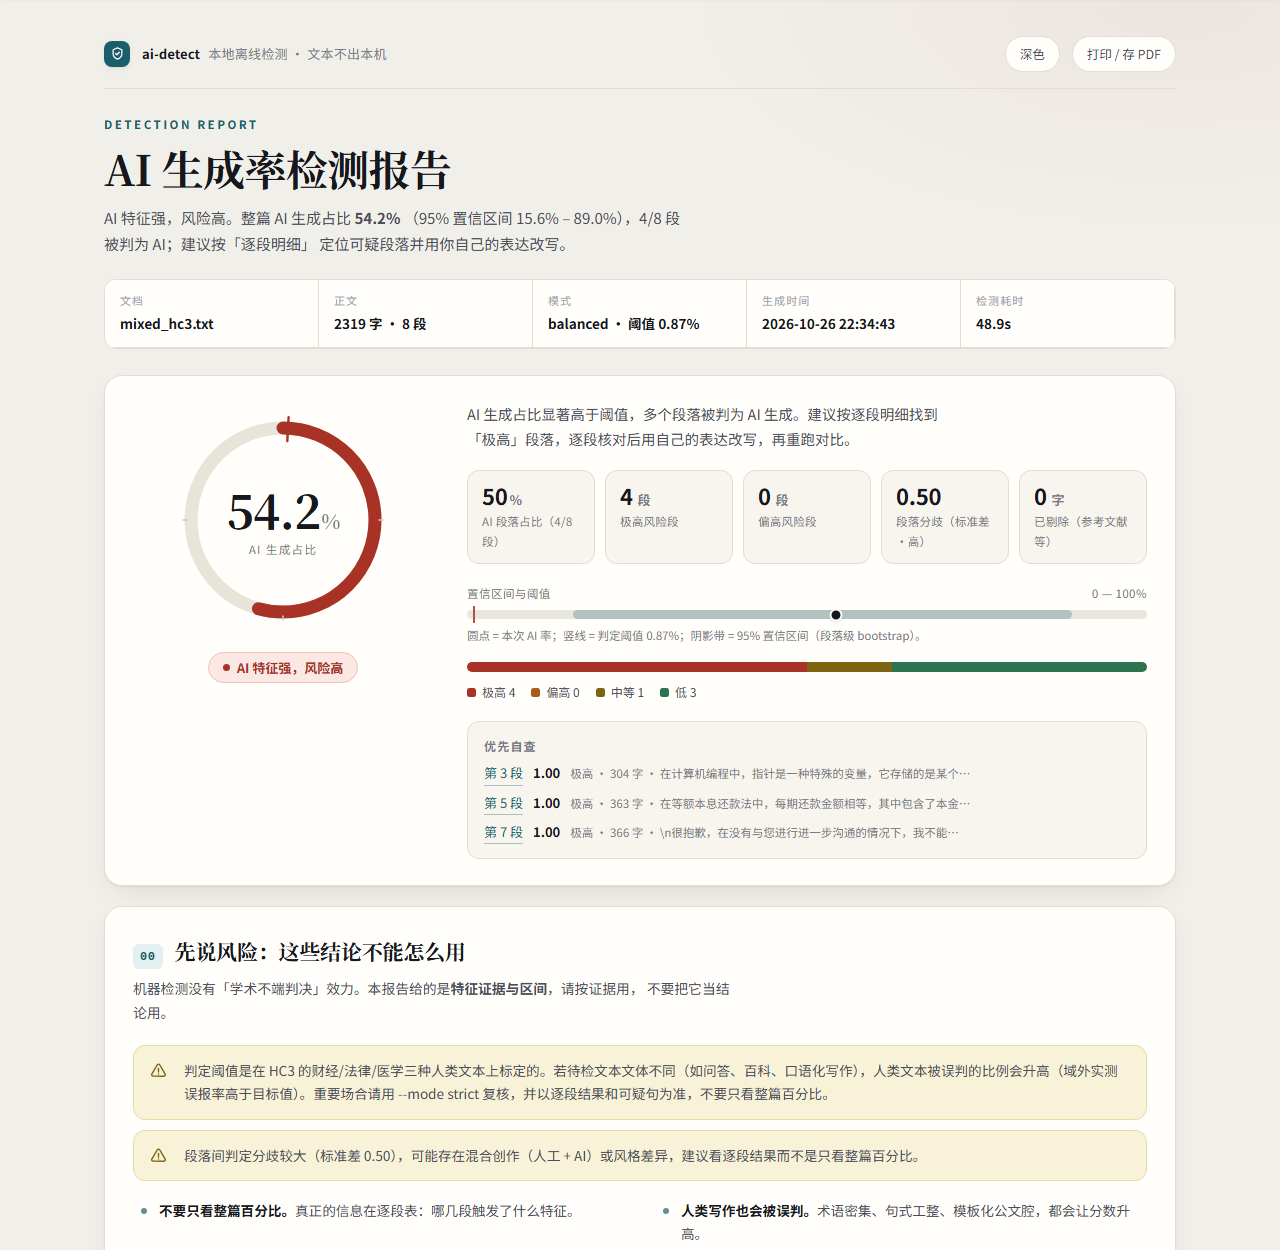
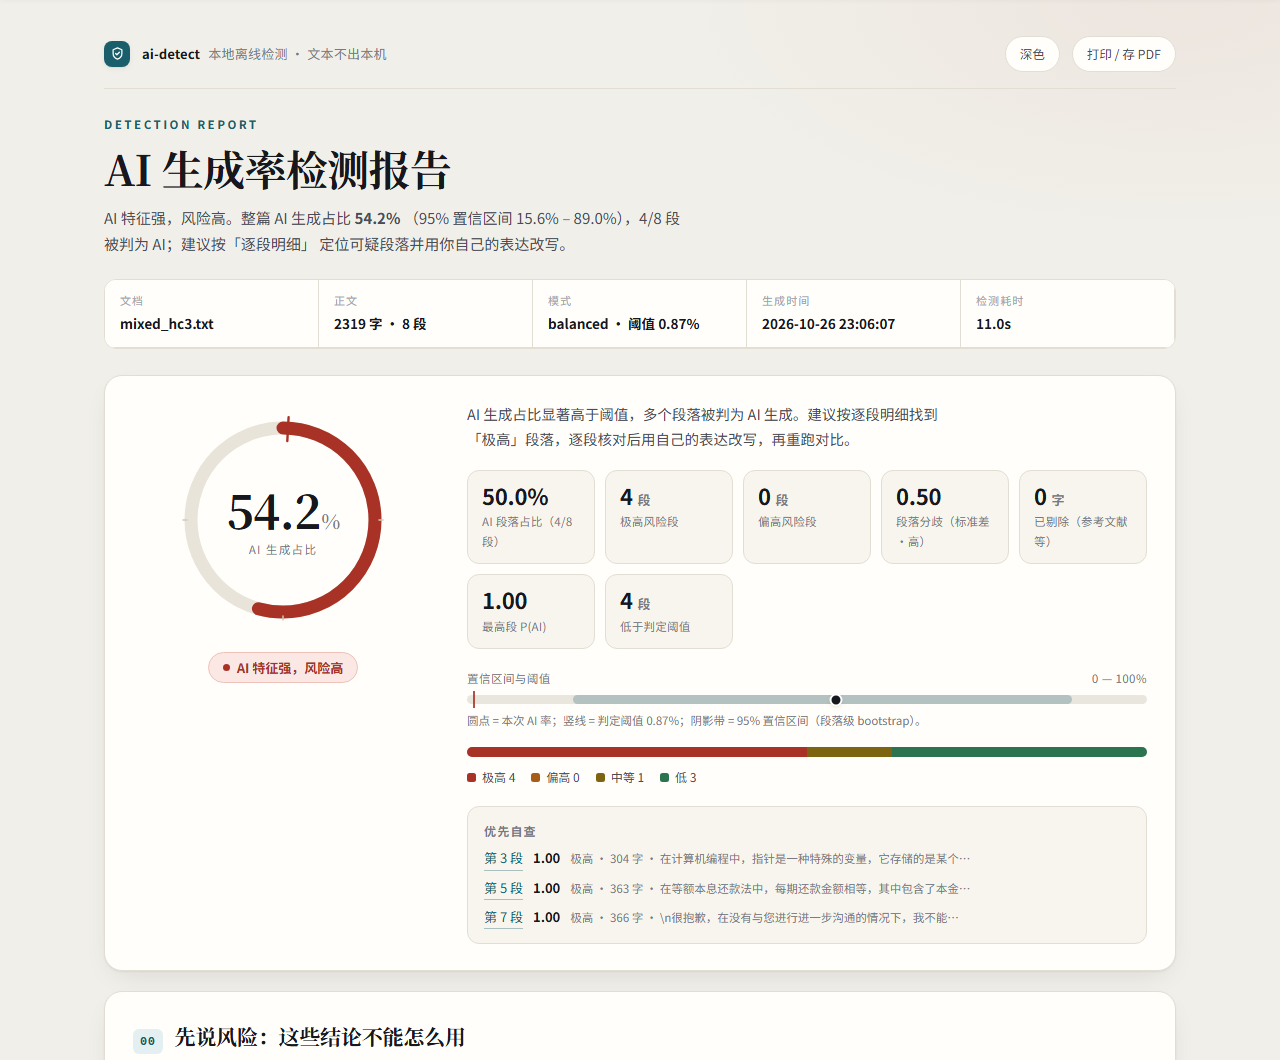
report: show tiny probabilities precisely and explain near-zero results

diff --git a/aidetect/report.py b/aidetect/report.py
@@ -437,6 +437,43 @@ def _cut_txt(value: float) -> str:
     return f"{value:.3f}"
 
 
+def _prob_txt(p: float) -> str:
+    """段落/句级概率文案：标定后分数常只有万分之几，固定两位会压成 0.00。"""
+    if p >= 0.1:
+        return f"{p:.2f}"
+    if p >= 0.01:
+        return f"{p:.3f}"
+    if p >= 0.0001:
+        return f"{p:.4f}"
+    return "<0.0001"
+
+
+def _prob_pct(p: float) -> str:
+    """柱状图柱顶标签：用百分比表示极小的概率，避免一排 0.00。"""
+    x = p * 100
+    if x >= 1:
+        return f"{x:.1f}%"
+    if x >= 0.01:
+        return f"{x:.2f}%"
+    return "<0.01%"
+
+
+def _rate_num(rate: float) -> str:
+    """整篇 AI 率的数字部分（不带 %），极小值不四舍五入成 0.0。"""
+    x = rate * 100
+    if x >= 0.1:
+        return f"{x:.1f}"
+    if x >= 0.001:
+        return f"{x:.2f}"
+    if x > 0:
+        return f"{x:.3f}"
+    return "0.00"
+
+
+def _rate_txt(rate: float) -> str:
+    return f"{_rate_num(rate)}%"
+
+
 def _gauge(rate: float, threshold: float, risk: str) -> str:
     """环形量表：进度环 = AI 率，刻度 = 判定阈值，颜色随风险档变化。"""
     size, center, radius, width = 236, 118, 92, 13
@@ -457,7 +494,7 @@ def _gauge(rate: float, threshold: float, risk: str) -> str:
             f'y2="{center + (radius + 8) * math.sin(a):.1f}" '
             f'stroke="var(--line-2)" stroke-width="1.5" stroke-linecap="round"/>')
     return f"""<div class="gauge">
-  <svg viewBox="0 0 {size} {size}" role="img" aria-label="AI 生成占比 {rate*100:.1f}%，判定阈值 {threshold*100:.2f}%">
+  <svg viewBox="0 0 {size} {size}" role="img" aria-label="AI 生成占比 {_rate_txt(rate)}，判定阈值 {threshold*100:.2f}%">
     <circle cx="{center}" cy="{center}" r="{radius}" fill="none" stroke="var(--gauge-track)" stroke-width="{width}"/>
     <circle cx="{center}" cy="{center}" r="{radius}" fill="none" stroke="{color}" stroke-width="{width}"
       stroke-linecap="round" stroke-dasharray="{dash:.2f} {circ:.2f}" transform="rotate(-90 {center} {center})"/>
@@ -466,7 +503,7 @@ def _gauge(rate: float, threshold: float, risk: str) -> str:
       stroke-linecap="round"/>
   </svg>
   <div class="gauge-center">
-    <div class="gauge-num">{rate*100:.1f}<small>%</small></div>
+    <div class="gauge-num">{_rate_num(rate)}<small>%</small></div>
     <div class="gauge-cap">AI 生成占比</div>
   </div>
 </div>"""
@@ -553,11 +590,11 @@ def _distribution_chart(analysis: Analysis) -> str:
         label = _unit_label(us)
         parts.append(
             f'<rect x="{x:.1f}" y="{y:.1f}" width="{bar_w:.1f}" height="{bar_h:.1f}" rx="2.5" '
-            f'fill="{color}"><title>{label} · P(AI)={us.p:.3f} · '
+            f'fill="{color}"><title>{label} · P(AI)={_prob_txt(us.p)} · '
             f'{GRADE_LABEL.get(us.grade, us.grade)} · {us.unit.chars} 字</title></rect>')
         if show_vals:
             parts.append(f'<text class="vlabel" x="{x + bar_w / 2:.1f}" y="{y - 6:.1f}" '
-                         f'text-anchor="middle">{us.p:.2f}</text>')
+                         f'text-anchor="middle">{_prob_pct(us.p)}</text>')
         if i % step == 0 or i == n - 1:
             parts.append(f'<text x="{x + bar_w/2:.1f}" y="{top + plot_h + 17:.1f}" '
                          f'text-anchor="middle">{_unit_label(us).replace("第 ", "").replace(" 段", "")}</text>')
@@ -576,7 +613,7 @@ def _top_paragraphs(analysis: Analysis, limit: int = 3) -> str:
     for r in picks:
         items.append(
             f'<li><a href="#p{r.index + 1}">第 {r.index + 1} 段</a>'
-            f'<b>{r.p:.2f}</b>'
+            f'<b>{_prob_txt(r.p)}</b>'
             f'<span class="tag">{GRADE_LABEL.get(r.grade, r.grade)} · {r.chars} 字 · '
             f'{_esc(r.text[:26])}…</span></li>')
     return f'<div class="tops"><h3>优先自查</h3><ol>{"".join(items)}</ol></div>'
@@ -616,7 +653,7 @@ def _para_rows(analysis: Analysis) -> str:
             f"<td class='num pnum'>{r.index + 1}</td>"
             f"<td>{kind}{merged}</td>"
             f"<td class='num'>{r.chars}</td>"
-            f"<td class='num heat'><span class='pv'>{r.p:.2f}</span>"
+            f"<td class='num heat'><span class='pv'>{_prob_txt(r.p)}</span>"
             f"<span class='hbar'><i style='width:{p*100:.1f}%;background:{heat}'></i></span></td>"
             f"<td><span class='g {r.grade}'>{GRADE_LABEL.get(r.grade, r.grade)}</span></td>"
             f"<td class='cell-text'>{_esc(r.text[:90])}"
@@ -668,7 +705,7 @@ def render(analysis: Analysis, generated_at: str | None = None) -> str:
     rk = risk_key(rate, analysis.threshold)
     title, desc = RISK[rk]
     ci = analysis.ai_rate_ci
-    ci_txt = (f"{_pct(ci[0])} – {_pct(ci[1])}" if ci else "样本段数太少，无法给出区间")
+    ci_txt = (f"{_rate_txt(ci[0])} – {_rate_txt(ci[1])}" if ci else "样本段数太少，无法给出区间")
     generated_at = generated_at or time.strftime("%Y-%m-%d %H:%M:%S")
     calib = analysis.recipe
     cuts = _grade_cutoffs(analysis)
@@ -680,6 +717,19 @@ def render(analysis: Analysis, generated_at: str | None = None) -> str:
     ps = [us.p for us in analysis.unit_scores]
     spread = (sum((p - sum(ps) / len(ps)) ** 2 for p in ps) / len(ps)) ** 0.5 if len(ps) > 1 else 0.0
     spread_txt = "低" if spread < 0.15 else ("中" if spread < 0.3 else "高")
+
+    scored = [r for r in analysis.paragraphs if r.p is not None]
+    max_p = max((r.p for r in scored), default=0.0)
+    below_n = sum(1 for r in scored if r.p < analysis.threshold)
+    low_signal = ""
+    if scored and max_p < analysis.threshold:
+        low_signal = (
+            f"<div class='ok'>{_ICON_CHECK}<div><b>全部 {len(scored)} 段都低于判定阈值"
+            f"（{analysis.threshold*100:.2f}%），最高的一段 P(AI) = {_prob_txt(max_p)}。</b>"
+            "这不是四舍五入凑出来的 0，而是模型确实给得很低，整篇更接近人工写作。"
+            "但方向要理解对：<b>分数低 ≠ 一定没用 AI</b> —— 检测器对「AI 生成后再大改」"
+            "「较新模型的输出」漏检率明显更高。若你怀疑某几段，单独把那几段复制成小文档再测一次，"
+            "比看整篇百分比更可靠。</div></div>")
 
     warns = "".join(
         f"<div class='warn'>{_ICON_ALERT}<div>{_esc(w)}</div></div>" for w in analysis.warnings)
@@ -713,7 +763,7 @@ def render(analysis: Analysis, generated_at: str | None = None) -> str:
 <div class="stickybar noprint" id="stickybar">
   <div class="inner">
     <span>{_esc(name)}</span>
-    <b class="num">{rate*100:.1f}%</b>
+    <b class="num">{_rate_txt(rate)}</b>
     <span class="risk pill {rk}">{_esc(title.replace('结论：', ''))}</span>
     <span>模式 {_esc(analysis.mode)} · 阈值 {analysis.threshold*100:.2f}%</span>
   </div>
@@ -732,7 +782,7 @@ def render(analysis: Analysis, generated_at: str | None = None) -> str:
   <div class="titles">
     <div class="eyebrow">Detection report</div>
     <h1>AI 生成率检测报告</h1>
-    <p class="subtitle">{_esc(title.replace('结论：', ''))}。整篇 AI 生成占比 <b>{rate*100:.1f}%</b>
+    <p class="subtitle">{_esc(title.replace('结论：', ''))}。整篇 AI 生成占比 <b>{_rate_txt(rate)}</b>
       （95% 置信区间 {ci_txt}），{ai_paras}/{units} 段被判为 AI；建议按「逐段明细」
       定位可疑段落并用你自己的表达改写。</p>
   </div>
@@ -754,12 +804,15 @@ def render(analysis: Analysis, generated_at: str | None = None) -> str:
     <div class="verdict-body">
       <p>{_esc(desc)}</p>
       <div class="statgrid">
-        <div class="stat"><b>{analysis.ai_rate_paras*100:.0f}<small>%</small></b><span>AI 段落占比（{ai_paras}/{units} 段）</span></div>
+        <div class="stat"><b>{_rate_txt(analysis.ai_rate_paras)}</b><span>AI 段落占比（{ai_paras}/{units} 段）</span></div>
         <div class="stat"><b>{high_n}<small> 段</small></b><span>极高风险段</span></div>
         <div class="stat"><b>{mid_high_n}<small> 段</small></b><span>偏高风险段</span></div>
         <div class="stat"><b>{spread:.2f}</b><span>段落分歧（标准差·{spread_txt}）</span></div>
         <div class="stat"><b>{st.get('excluded_chars', 0)}<small> 字</small></b><span>已剔除（参考文献等）</span></div>
+        <div class="stat"><b>{_prob_txt(max_p)}</b><span>最高段 P(AI)</span></div>
+        <div class="stat"><b>{below_n}<small> 段</small></b><span>低于判定阈值</span></div>
       </div>
+      {low_signal}
       {_range_bar(rate, ci, analysis.threshold)}
       {_grade_bar(analysis)}
       {_top_paragraphs(analysis)}

diff --git a/aidetect/cli.py b/aidetect/cli.py
@@ -38,20 +38,32 @@ def _load_doc(source: str):
     return build_doc(text, name)
 
 
+def _rate_txt(rate: float) -> str:
+    """标定后的 AI 率可能只有万分之几，不能一律四舍五入成 0.0%。"""
+    x = rate * 100
+    if x >= 0.1:
+        return f"{x:.1f}%"
+    if x >= 0.001:
+        return f"{x:.2f}%"
+    if x > 0:
+        return f"{x:.3f}%"
+    return "0.00%"
+
+
 def _print_summary(analysis, html_path: Path | None, json_path: Path | None) -> None:
     st = analysis.stats
     rate = analysis.ai_rate_chars
     ci = analysis.ai_rate_ci
-    ci_txt = f"{ci[0]*100:.1f}%–{ci[1]*100:.1f}%" if ci else "样本不足"
+    ci_txt = f"{_rate_txt(ci[0])}–{_rate_txt(ci[1])}" if ci else "样本不足"
     print(f"\n文档：{st.get('name')}  正文 {st.get('body_chars')} 字 / {st.get('units')} 段 "
           f"（剔除 {st.get('excluded_chars', 0)} 字）")
     for e in analysis.engine_info:
         state = "✓" if e["available"] else "✗"
         print(f"引擎 {state} {e['label']}" + (f"  {e['note']}" if e["note"] else ""))
-    print(f"\nAI 生成占比（字数口径）：{rate*100:.1f}%   95% CI {ci_txt}")
+    print(f"\nAI 生成占比（字数口径）：{_rate_txt(rate)}   95% CI {ci_txt}")
     judged = analysis.grade_counts.get("high", 0) + analysis.grade_counts.get("mid_high", 0)
-    print(f"AI 段落占比：{analysis.ai_rate_paras*100:.0f}%（{judged}/{st.get('units')} 段判为 AI）"
-          f"   模式 {analysis.mode} / 阈值 {analysis.threshold:.2f}")
+    print(f"AI 段落占比：{_rate_txt(analysis.ai_rate_paras)}（{judged}/{st.get('units')} 段判为 AI）"
+          f"   模式 {analysis.mode} / 阈值 {analysis.threshold*100:.2f}%")
     if analysis.warnings:
         print("\n护栏提示：")
         for w in analysis.warnings:

diff --git a/README.md b/README.md
@@ -199,7 +199,7 @@ Get-ChildItem .\papers\*.docx | ForEach-Object {
 
 | 区块 | 内容 | 用法 |
 | --- | --- | --- |
-| 首屏结论 | 环形量表（AI 生成占比）、风险档、95% 置信区间条与阈值刻度、AI 段落占比、极高 / 偏高风险段数、段落分歧、已剔除字数、等级分布条、优先自查 Top3 | 先看结论与区间，**不要只看那个百分比** |
+| 首屏结论 | 环形量表（AI 生成占比）、风险档、95% 置信区间条与阈值刻度、AI 段落占比、极高 / 偏高风险段数、段落分歧、已剔除字数、**最高段 P(AI)**、**低于判定阈值段数**、等级分布条、优先自查 Top3 | 先看结论与区间，**不要只看那个百分比**；分数很小时看「最高段 P(AI)」判断是「确实低」还是「没算出来」 |
 | 先说风险 | 报告的静态使用边界 + 本次触发的护栏提示 | 从「这些结论不能怎么用」入手 |
 | 01 段落分布 | 每根柱子 = 一个判定单元的 P(AI)（柱顶标数值），虚线 = 当前模式阈值，颜色 = 四档；横轴段号与「03 逐段明细」的行锚点一致 | 快速定位哪几段「突出来」，点段号可跳转 |
 | 02 可疑句 | 只对已判为 AI 的单元做句级细化，按 P(AI) 降序，默认先列 8 条、其余折叠，最多 `--max-sentences` 条 | 优先改写的位置 |
@@ -526,6 +526,21 @@ ai-detect/
 ### 为什么我原创的段落被判偏高？
 
 常见原因：模板化表达多、句式过于均匀、连接词密度高、术语堆叠（困惑度异常低）、或者文本经过 AI 润色 / 翻译工具处理。先看报告「03 逐段明细」里每段的判定依据，再决定是否改写；也可以切到 `lenient` 模式看同一篇文章的下限。改写时**不要只做同义词替换**——检测器主要看句式节奏与可预测性，同义替换基本无效；加具体信息、个人判断、例子，拆掉过分工整的排比和模板连接词，通常比换词有效。
+
+### 检测结果全是 0.0%，是不是工具坏了？
+
+先看首屏「最高段 P(AI)」这一格：
+
+- **它也远低于判定阈值**（例如 0.0004 vs 0.87%）→ 模型确实给得很低，不是四舍五入凑出来的 0。报告与命令行现在按量级显示（万分之几不会被写成 `0.00`），首屏还会直接写明「全部 N 段都低于判定阈值，最高的一段 P(AI) = …」。
+- **它不低、整篇却是 0.0%** → 那才是真异常，请把 `out/<文档>_report.json` 留下来核对。
+
+分数普遍很低通常意味着「文本更像人工写作」，但方向要理解对：**低分不能证明没用过 AI**。判别器是在 HC3（ChatGPT 时代的中文问答文本）上训练的，下面三种情况漏检率明显更高：
+
+1. AI 生成后又被人改写、润色的文本；
+2. 比训练语料更新的模型（GPT-4、Claude、DeepSeek 等）的输出；
+3. 长论文、公文、综述这类句式本来就规整的文体（与问答语料风格差距大）。
+
+自查建议：把怀疑的段落单独复制成一个小 txt 再测（段落越短、上下文越少，AI 特征越容易暴露）；或加 `--mode lenient` 看同一篇的下限；「03 逐段明细」里每段都能展开看「判定依据」，会写明是哪类特征在起作用。想看检测器本身的灵敏度，可以跑 `python tools\e2e.py --repeat 1 --compare-human`，它会把 `data/hc3zh` 里真实的 ChatGPT 回答和人类回答送进同一条链路。
 
 ### 检测结果和知网 / 维普一致吗？为什么不能当学术不端证据？
 
